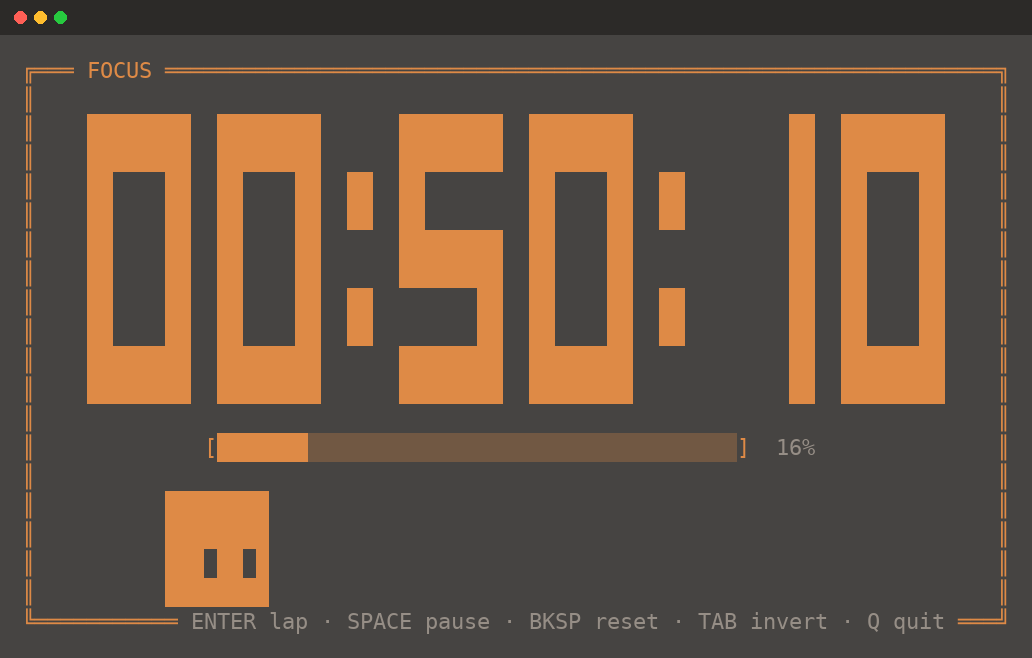
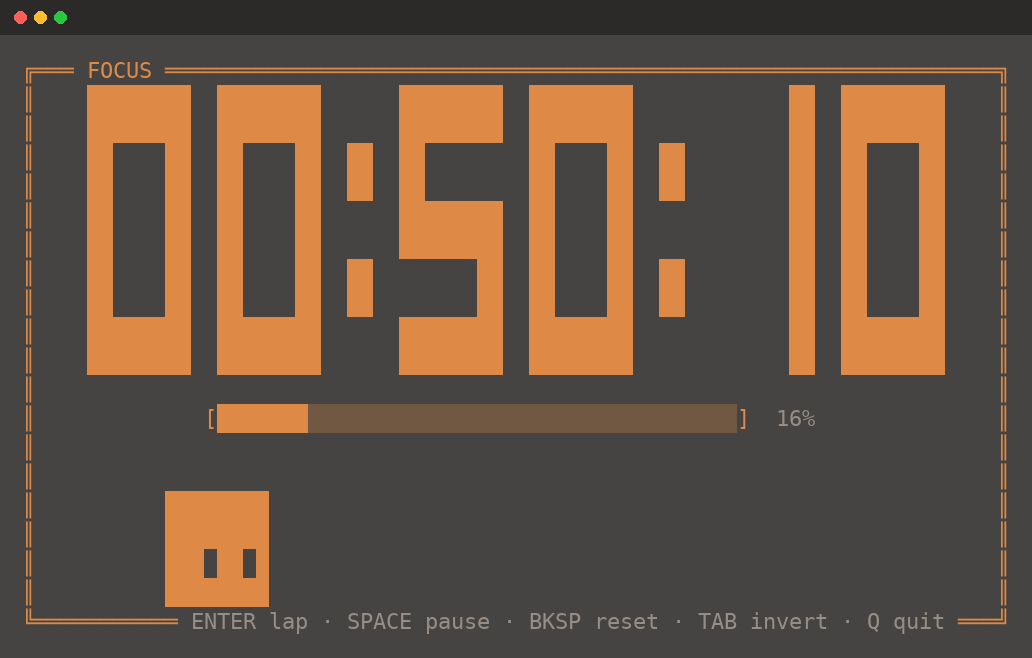
Replace the hover eye-widening with a startle-jump
Widened eyes read as creepy. On hover the slime now looks straight at you
with its ordinary eyes for 200ms, jumps a block into the air, hangs for
500ms, then drops back down, and keeps watching until the pointer leaves.
The slime band gains a row of air above the body for it to jump into, and
the jump runs on timers rather than the 250ms animation tick, which is
too coarse for those durations and would repaint far more often than the
three pose changes need.

diff --git a/lib/slime.js b/lib/slime.js
@@ -10,6 +10,8 @@
 // reads as a bite out of the outline instead of an eye.
 const WIDTH = 8;
 const HEIGHT = 4;
+// One row of air above the body so it has somewhere to jump to.
+const BAND_HEIGHT = HEIGHT + 1;
 const MARGIN = 1;
 
 // Ticks are 250ms, so 4 per second.
@@ -37,6 +39,7 @@ function createSlime() {
     moveDir: null, // 'left' | 'right' while travelling, null when stopped
     shut: false,
     hovered: false, // set from mouse reports, when the terminal sends them
+    airborne: false, // mid startle-jump, driven by timers in the caller
     lookDelay: randInt(LOOK_DELAY_MIN, LOOK_DELAY_MAX),
     blinksLeft: 0,
     nextBlink: 0,
@@ -164,10 +167,12 @@ function updateSlime(state, interior, paused) {
     return state;
   }
   if (state.hovered) {
-    // Noticed the pointer: stops where it is and stares straight ahead,
-    // eyes wide, until the mouse moves off it again.
+    // Noticed the pointer: stops where it is and looks straight at you until
+    // the mouse moves off again. The startle-jump itself is timed by the
+    // caller, since it is far quicker than the animation tick.
     state.shut = false;
     state.look = 'center';
+    state.moveDir = null;
     state.blinkTicks = 0;
     return state;
   }
@@ -185,8 +190,6 @@ function updateSlime(state, interior, paused) {
 const EYE_COLUMNS = { center: [2, 5], right: [3, 6], left: [1, 4] };
 const ROW_UP = 1;
 const ROW_DOWN = 2;
-// Startled by the pointer: each eye widens to two tiles.
-const EYE_COLUMNS_WIDE = [1, 2, 5, 6];
 
 function slimeSprite(state) {
   const rows = [];
@@ -196,8 +199,9 @@ function slimeSprite(state) {
   let row;
   let columns;
   if (state.hovered) {
+    // Looking straight at you, with its ordinary eyes.
     row = ROW_DOWN;
-    columns = EYE_COLUMNS_WIDE;
+    columns = EYE_COLUMNS.center;
   } else if (state.look !== 'center') {
     // Glancing up at the clock.
     row = ROW_UP;
@@ -216,6 +220,7 @@ function slimeSprite(state) {
 module.exports = {
   WIDTH,
   HEIGHT,
+  BAND_HEIGHT,
   MARGIN,
   createSlime,
   updateSlime,

diff --git a/lib/app.js b/lib/app.js
@@ -11,6 +11,11 @@ const { createSlime, updateSlime, isOverSlime } = require('./slime');
 const ENABLE_MOUSE = '\x1b[?1003h\x1b[?1006h';
 const DISABLE_MOUSE = '\x1b[?1003l\x1b[?1006l';
 const MOUSE_REPORT = /\x1b\[<\d+;(\d+);(\d+)[Mm]/g;
+
+// Startle-jump on hover: a beat looking at you, then up, then back down.
+// Timed rather than tied to the animation tick, which is far too coarse.
+const STARTLE_DELAY_MS = 200;
+const STARTLE_AIR_MS = 500;
 const {
   HIDE_CURSOR,
   SHOW_CURSOR,
@@ -151,6 +156,28 @@ function run(argv) {
     if (slime) updateSlime(slime, (process.stdout.columns || 80) - 2, paused);
   }
 
+  let startleTimers = [];
+
+  function clearStartle() {
+    startleTimers.forEach(clearTimeout);
+    startleTimers = [];
+  }
+
+  function startStartle() {
+    startleTimers.push(
+      setTimeout(() => {
+        if (exiting) return;
+        slime.airborne = true;
+        draw();
+      }, STARTLE_DELAY_MS),
+      setTimeout(() => {
+        if (exiting) return;
+        slime.airborne = false;
+        draw();
+      }, STARTLE_DELAY_MS + STARTLE_AIR_MS),
+    );
+  }
+
   function draw() {
     const frame = renderFrame({
       cols: process.stdout.columns || 80,
@@ -193,6 +220,7 @@ function run(argv) {
     exiting = true;
     if (interval) clearInterval(interval);
     if (animInterval) clearInterval(animInterval);
+    clearStartle();
     process.stdout.write(DISABLE_MOUSE + SHOW_CURSOR + EXIT_ALT_SCREEN);
     if (process.stdin.isTTY) process.stdin.setRawMode(false);
     process.stdin.pause();
@@ -222,8 +250,11 @@ function run(argv) {
     );
     if (over !== slime.hovered) {
       slime.hovered = over;
+      clearStartle();
+      slime.airborne = false;
       updateSlime(slime, (process.stdout.columns || 80) - 2, paused);
       draw();
+      if (over) startStartle();
     }
     return true;
   }

diff --git a/lib/render.js b/lib/render.js
@@ -4,7 +4,7 @@ const { GLYPH_HEIGHT, glyphRows, glyphWidth } = require('./font');
 const { fg, bgSeq, visibleLength, DARK, LIGHT, RESET } = require('./colors');
 const {
   WIDTH: SLIME_WIDTH,
-  HEIGHT: SLIME_ROWS,
+  BAND_HEIGHT: SLIME_ROWS,
   MARGIN: SLIME_MARGIN,
   slimeSprite,
 } = require('./slime');
@@ -166,8 +166,13 @@ function buildSlimeRows(state, interior, color) {
   const maxX = Math.max(SLIME_MARGIN, interior - SLIME_WIDTH - SLIME_MARGIN);
   const left = Math.min(maxX, Math.max(SLIME_MARGIN, state.x || 0));
 
-  return slimeSprite(state).map((row) => {
-    const line = ' '.repeat(left) + row;
+  // The band is one row taller than the body: normally the slime sits at the
+  // bottom of it, and a startle-jump lifts it into the spare row on top.
+  const body = slimeSprite(state);
+  const band = state.airborne ? [...body, ''] : ['', ...body];
+
+  return band.map((row) => {
+    const line = row ? ' '.repeat(left) + row : '';
     return fg(...color, line) + ' '.repeat(Math.max(0, interior - visibleLength(line)));
   });
 }

diff --git a/README.md b/README.md
@@ -79,13 +79,13 @@ built from the same tiles as the digits, and its two eyes are simply left
 unpainted so the background shows through them.
 
 ```
-  ████████    ████████    ████████    ████████    ████████
-  ████████    ███ ██ █    ████████    ████████    ████████
-  ██ ██ ██    ████████    ███ ██ █    █  ██  █    ████████
-  ████████    ████████    ████████    ████████    ████████
-   stopped    glancing     heading      startled     eyes
-                up at        right      by the       shut
-              the clock                 pointer
+  ████████    ████████    ████████    ████████
+  ████████    ███ ██ █    ████████    ████████
+  ██ ██ ██    ████████    ███ ██ █    ████████
+  ████████    ████████    ████████    ████████
+   stopped    glancing     heading      eyes
+                up at        right      shut
+              the clock
 ```
 
 It mostly sits still, then crosses the floor in one purposeful trip — never
@@ -105,8 +105,19 @@ stays put with its eyes shut. Hide it with `--no-slime`.
 
 #### Hovering
 
-Point at the slime and it stops, stares straight ahead and widens its eyes
-until you move away.
+Point at the slime and it startles: it stops and looks straight at you for a
+moment, jumps a block into the air, hangs there for half a second, then drops
+back down. It keeps watching you until you move away.
+
+```
+  ████████                          ████████
+  ████████     jumps    ████████    ████████
+  ██ ██ ██      ──▶     ████████    ██ ██ ██
+  ████████              ██ ██ ██    ████████
+ ▔▔▔▔▔▔▔▔▔▔            ████████    ▔▔▔▔▔▔▔▔▔▔
+   noticed            ▔▔▔▔▔▔▔▔▔▔      lands
+     you               in the air
+```
 
 Terminals have no hover event, so this is synthesised from mouse motion
 reports: the app enables `?1003h` (report all motion) with `?1006h` (SGR
